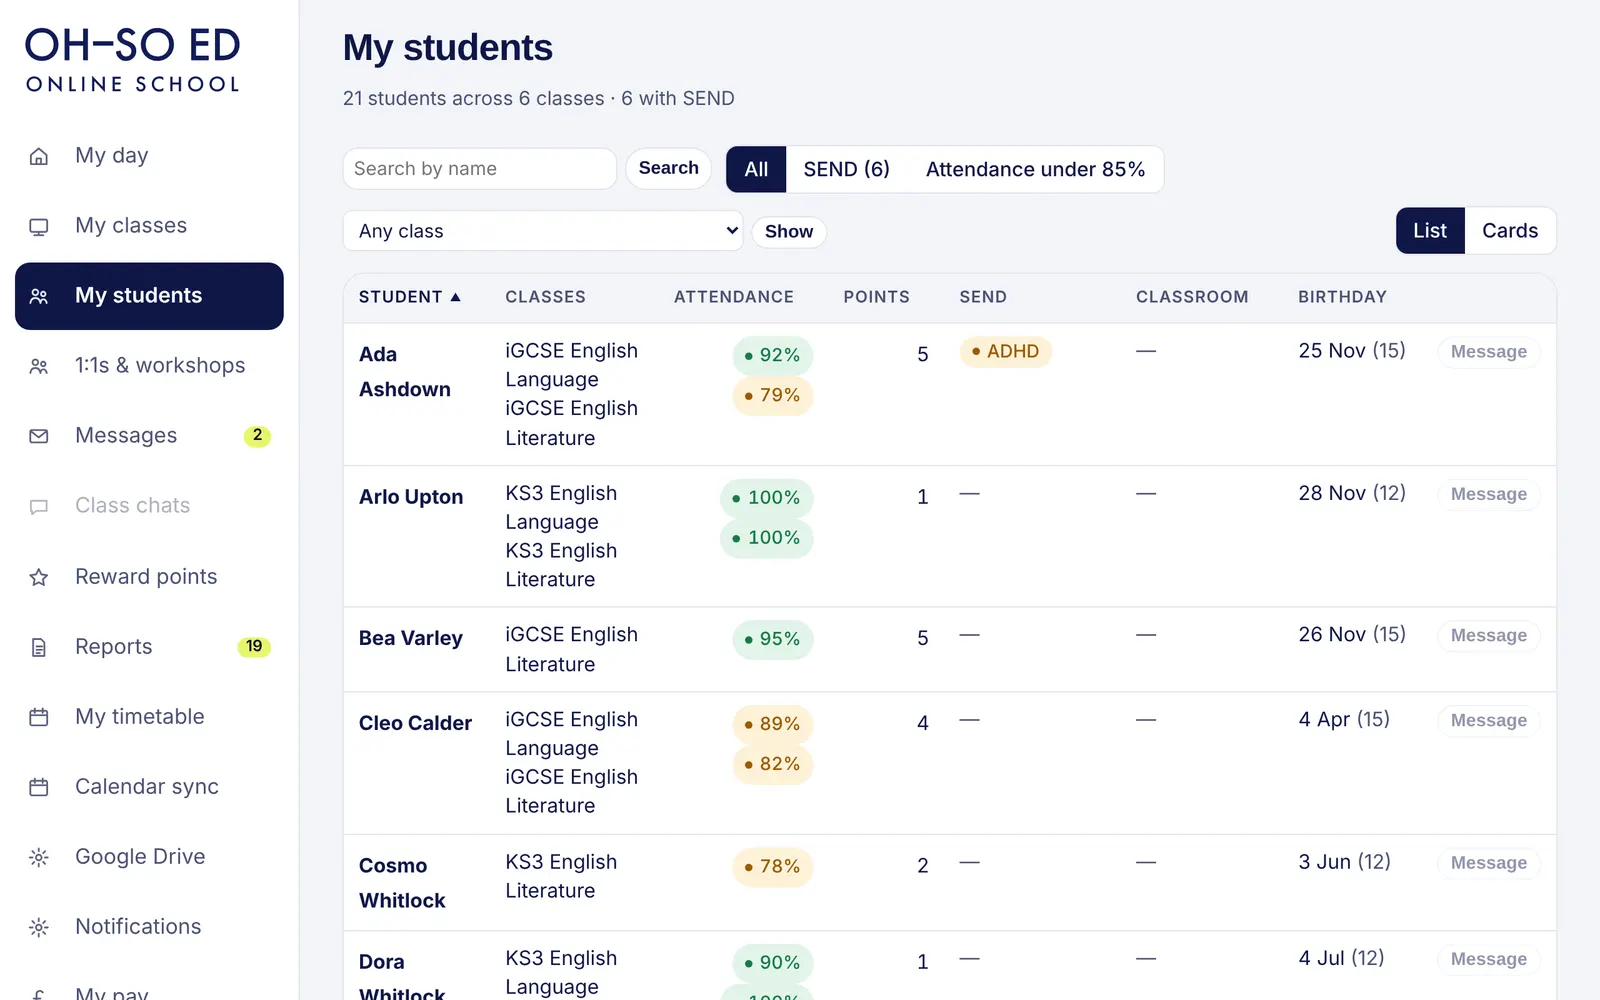
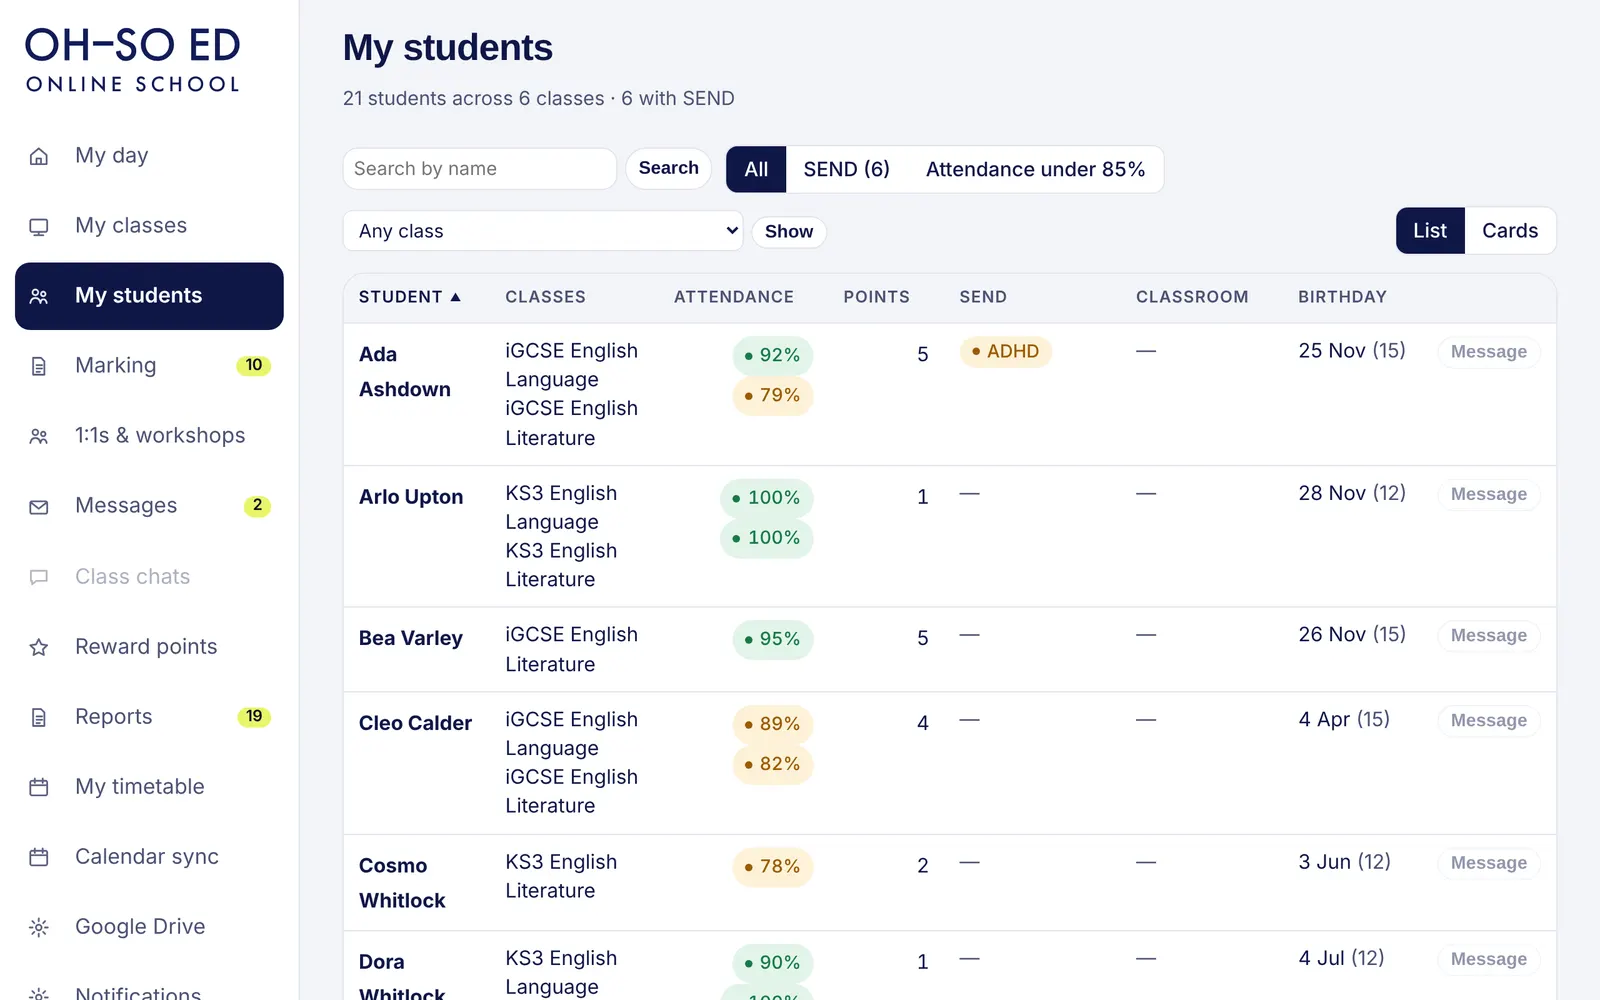
Update 422: Marking section on the teacher presentation page
New Marking section with a screenshot of Teacher → Marking (made-up names); teacher
screenshots retaken so the menu shows Marking.

Claude-Session: https://claude.ai/code/session_019jwWYdrTturMMjiMEQw7Wv

diff --git a/src/app/(site)/newdashboard/content.ts b/src/app/(site)/newdashboard/content.ts
@@ -33,6 +33,9 @@ export const PAGES: Record<Role, Page> = {
       { id: "students", title: "My students", shot: "students", alt: "My students: every student across your classes with attendance, points and SEND",
         text: "All your students across every class, with attendance, reward points, SEND and birthdays.",
         points: ["Search by name", "Filter to SEND, or to anyone under 85% attendance"] },
+      { id: "marking", title: "Marking", shot: "marking", alt: "Marking: each piece of work handed in and waiting to be marked, with how many to mark, the return-by date and a countdown, opened to show the students who handed it in",
+        text: "Everything your students have handed in that’s waiting to be marked, with a countdown to return it within 7 days of its due date.",
+        points: ["See each piece of work, most urgent first, or group them by class", "Open a piece of work to see who handed it in and who was late", "Each student’s work opens straight in Google Classroom, where you mark and return it as you do now", "The menu shows how many hand-ins are waiting"] },
       { id: "messages", title: "Messages", shot: "messages", alt: "Messages: conversations with the school office",
         text: "Write to the school office in one place, and keep every conversation in a thread you can come back to.",
         points: ["See which conversations are waiting for your reply", "Messages from the office come to your email too", "No personal email addresses or phone numbers are shared"] },
